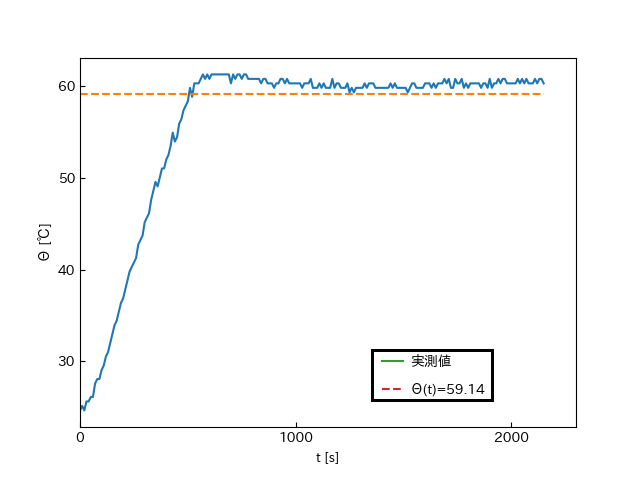
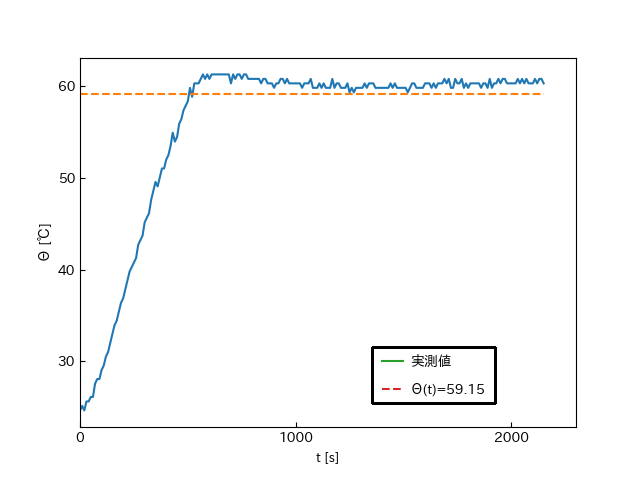
Modify Control-InftyValue

Changed region(s): [[0.5625, 0.7188, 0.7812, 0.8438]]

diff --git a/SeigyoExp3/plotData.py b/SeigyoExp3/plotData.py
@@ -60,35 +60,31 @@ def error_sum(data, t_data, K_p=2.4908, T_p=1516.3, L_p=23.0744):
     sum_diff = sum([abs(e-f)/e for e,f in zip(data, c)])/len(data)
     return sum_diff
 
-# Control_Exp.png
-mat = np.array(csv_read('datasets/bc_controll.CSV'))*100
-time_mat = np.array(range(0, len(mat)))*10
 data1 = mat[:,data_num]
-y = 0*time_mat+59.15
-plt.plot(time_mat, data1)
-plt.plot(time_mat, y, linestyle="dashed")
-plt.xlabel("t [s]")
-plt.xticks(range(0,4000,1000))
-plt.yticks(range(20,80,10))
-#plt.axis(xmin=0, xmax, ymin, ymax)
-plt.axis(xmin=0, xmax=2300)
-plt.ylabel("Θ [℃]")
-tmp_x = np.array(range(1400, 1600, 100))
-tmp_y = 0*tmp_x + 30
-plt.plot(tmp_x, tmp_y)
-tmp_y = 0*tmp_x + 27
-plt.plot(tmp_x, tmp_y, linestyle="dashed")
-plt.text(x=1530, y=30.5-1, s="実測値")
-plt.text(x=1530, y=27.5-1, s="Θ(t)=59.15")
-plt.show()
+## Control_Exp.png
+#mat = np.array(csv_read('datasets/bc_controll.CSV'))*100
+#time_mat = np.array(range(0, len(mat)))*10
+#y = 0*time_mat+59.15
+#plt.plot(time_mat, data1)
+#plt.plot(time_mat, y, linestyle="dashed")
+#plt.xlabel("t [s]")
+#plt.xticks(range(0,4000,1000))
+#plt.yticks(range(20,80,10))
+##plt.axis(xmin=0, xmax, ymin, ymax)
+#plt.axis(xmin=0, xmax=2300)
+#plt.ylabel("Θ [℃]")
+#tmp_x = np.array(range(1400, 1600, 100))
+#tmp_y = 0*tmp_x + 30
+#plt.plot(tmp_x, tmp_y)
+#tmp_y = 0*tmp_x + 27
+#plt.plot(tmp_x, tmp_y, linestyle="dashed")
+#plt.text(x=1530, y=30.5-1, s="実測値")
+#plt.text(x=1530, y=27.5-1, s="Θ(t)=59.15")
+#plt.show()
 #
 mat = np.array(csv_read('datasets/bc.CSV'))*100
 time_mat = np.array(range(0, len(mat)))*10
-#print(mat)
-#print(len(mat))
-#print(len(mat[0]))
 
-data1 = mat[:,data_num] #TODO DATA番号
 ## Identification.png
 #plt.plot(time_mat, data1)
 #plt.xlabel("t [s]")
